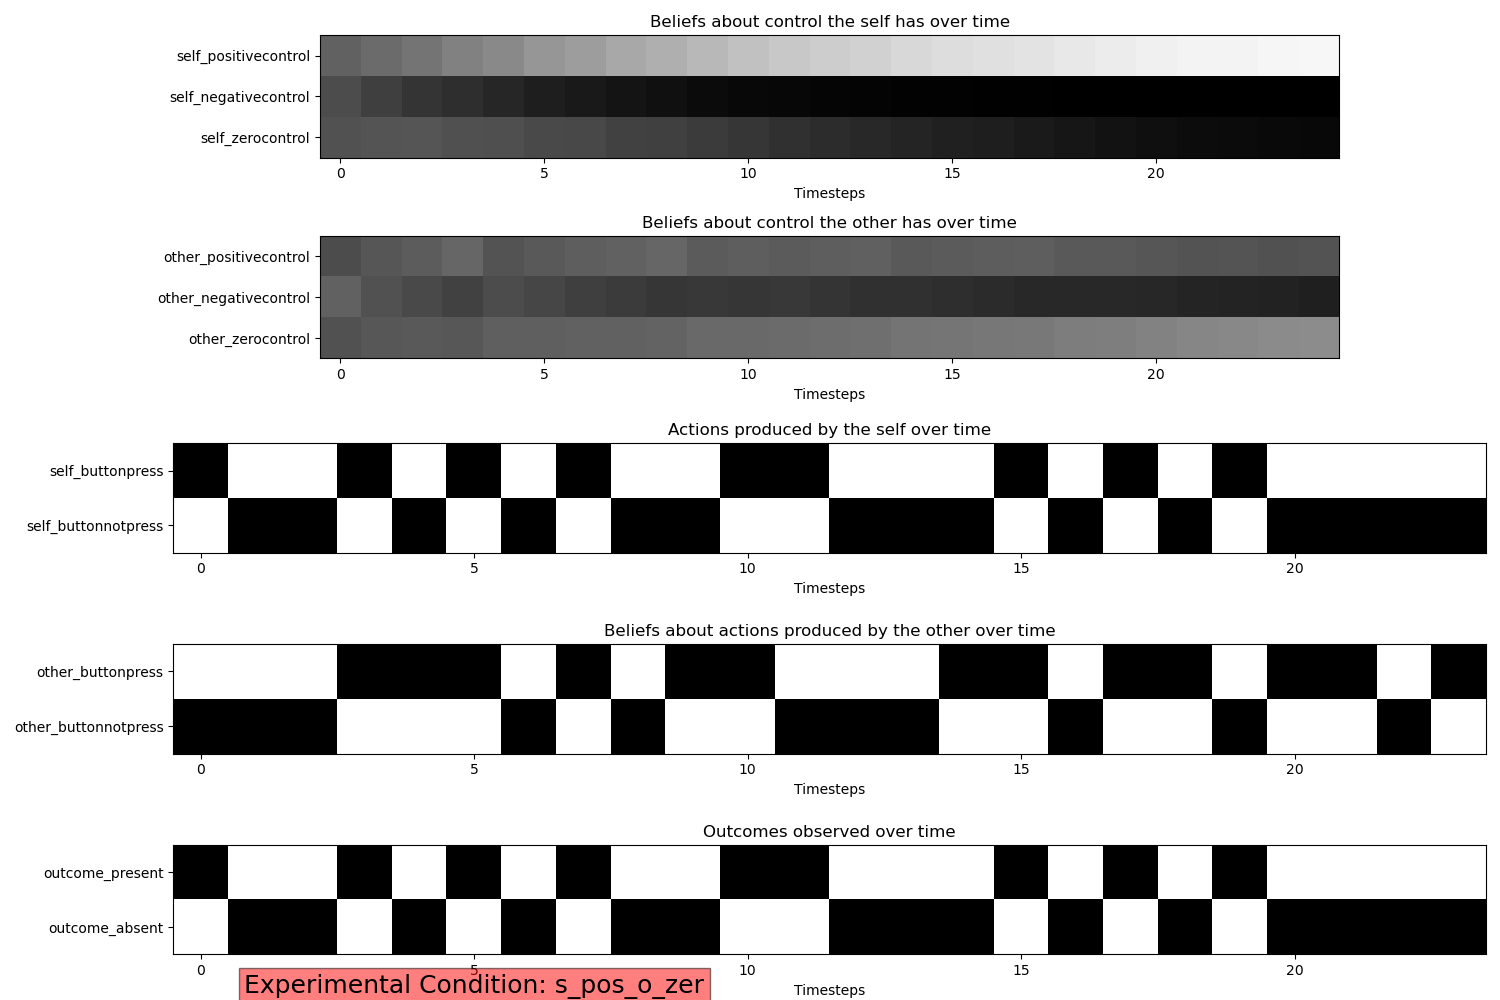
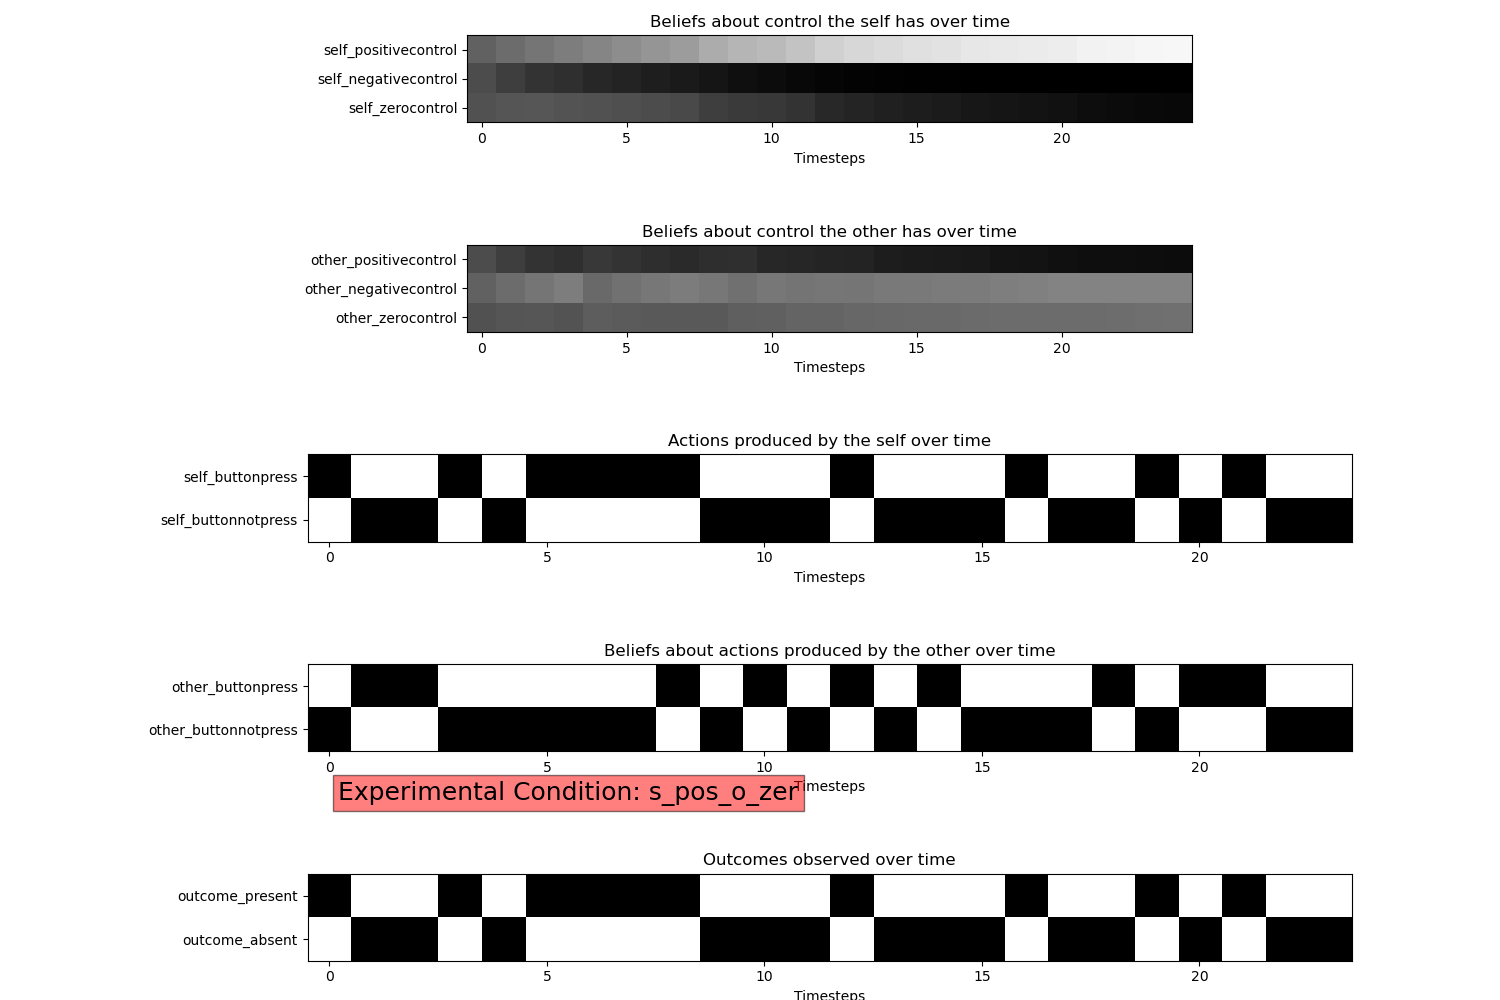
Experiment 2024-02-23-22-41-34

diff --git a/agency_twoagents.py b/agency_twoagents.py
@@ -501,7 +501,7 @@ def plot_all_choices_beliefs(log, env, savefig = 1):
     fig, axes = plt.subplots(nrows = 5, ncols = 1, figsize = (15,10))
     
     exp_cond_text = f'Experimental Condition: {env.expcondition}'
-    plt.text(0.2, -2.2, exp_cond_text, 
+    plt.text(0.5, -10, exp_cond_text, 
              fontsize = 18, bbox = dict(facecolor = 'red', alpha = 0.5))
 
     axes[0].imshow(log['belief_self_context_hist'], cmap = 'gray', vmin=0, vmax=1)
